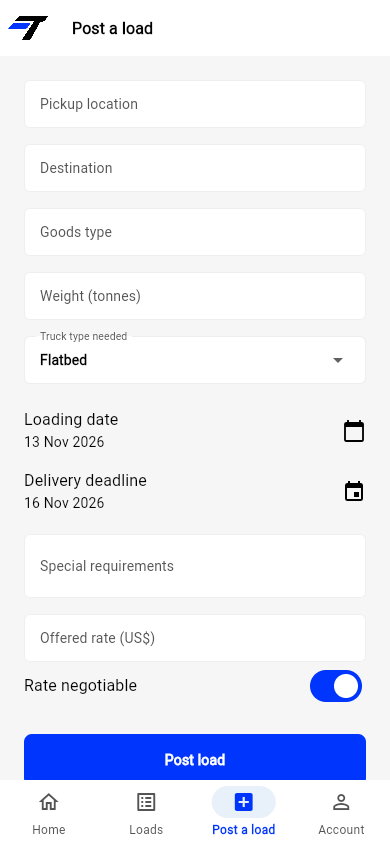
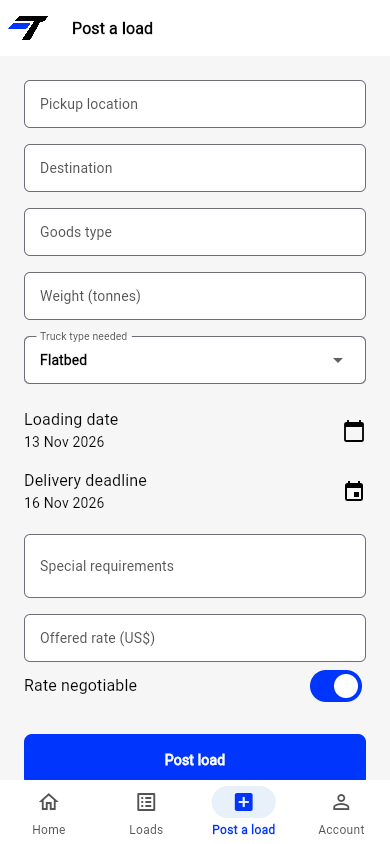
Use Design's new tokens: primaryPressed, focusRing/focusRingDark, inputBorder
- Drop TruberPendingTokens; primary pressed and focus ring come from
  truber_design (no hex literals left in the app)
- Input borders inherit TruberTheme's inputBorder/inputBorderDark and
  focusRingDark tokens; 5 input-border contrast tests un-skipped and pass
- Outlined-button border pairs exempt under WCAG 1.4.11 (label identifies
  the control), asserted via the label's 4.5:1, not skipped
- Retaken toggle, button, input and before/after screenshots

diff --git a/mobile/test/theme_contrast_test.dart b/mobile/test/theme_contrast_test.dart
@@ -1,7 +1,9 @@
 // WCAG 2.x contrast for every text/background pair the app actually uses,
 // in both themes, using the shipped ThemeData (TruberAppTheme) and
 // truber_design tokens. Colours are NOT changed here: a known failure is
-// listed in [_knownFailures] and its test is skipped with the reason.
+// listed in [_knownFailures] and its test is skipped with the reason. A pair
+// WCAG does not require to meet 3:1 is listed in [_exempt]; its test still
+// runs and checks the condition that makes it exempt.
 import 'dart:math' as math;
 
 import 'package:flutter/material.dart';
@@ -193,21 +195,22 @@ List<Pair> pairsFor(Brightness b) {
 }
 
 /// Pairs that fail today. Colours are Design's; not changed here.
-const _knownFailures = <String, String>{
+/// Pairs that fail and are not exempt. Empty since Design's 11 Nov token
+/// update (inputBorder / inputBorderDark, focusRingDark).
+const _knownFailures = <String, String>{};
+
+/// WCAG 1.4.11 (Non-text Contrast) exemption: a button's border doesn't need
+/// 3:1 when the control is identified by its label. Maps the border pair to
+/// the label pair that must then meet 4.5:1.
+const _wcag1411 =
+    'Exempt under WCAG 1.4.11: the outlined button is identified by its label, '
+    'not its border, so the border needs no minimum contrast. The label must '
+    'still meet 4.5:1.';
+const _exempt = <String, String>{
   'light · button · outlined border vs scaffold':
-      'Outlined (secondary) buttons are unchanged by request; Design token borderStrong #D0D0D0 on scaffold #F6F6F6. Needs Design.',
+      'light · button · outlined label on scaffold',
   'dark · button · outlined border vs scaffold':
-      'Outlined (secondary) buttons are unchanged by request; Design token borderStrongDark #545454 on scaffoldDark #141416. Needs Design.',
-  'light · input · enabled border vs fill':
-      'Design token border #EEEEEE on white input fill; WCAG 1.4.11 needs 3:1 for component boundaries. Needs Design.',
-  'light · input · enabled border vs scaffold':
-      'Design token border #EEEEEE on scaffold #F6F6F6. Needs Design.',
-  'dark · input · enabled border vs fill':
-      'Design token borderDark #3A3A40 on surfaceMutedDark #1C1C20. Needs Design.',
-  'dark · input · enabled border vs scaffold':
-      'Design token borderDark #3A3A40 on scaffoldDark #141416. Needs Design.',
-  'dark · input · focused border vs fill':
-      'Design theme uses primaryDark (#0035FE since the 11 Nov brand change) for the dark focused input border; 2.38:1 on surfaceMutedDark #1C1C20. Needs Design.',
+      'dark · button · outlined label on scaffold',
 };
 
 void main() {
@@ -221,7 +224,7 @@ void main() {
       b.writeln(
           '| ${p.theme} | ${p.group} | ${p.name} | ${_hex(p.fg)} | ${_hex(p.bg)} | '
           '${p.ratio.toStringAsFixed(2)}:1 | ${_min(p.kind).toStringAsFixed(1)} | '
-          '${ok ? 'pass' : (_knownFailures.containsKey(p.id) ? 'FAIL (known, skipped)' : 'FAIL')} |');
+          '${ok ? 'pass' : _exempt.containsKey(p.id) ? 'exempt (WCAG 1.4.11)' : (_knownFailures.containsKey(p.id) ? 'FAIL (known, skipped)' : 'FAIL')} |');
     }
     // ignore: avoid_print
     print(b);
@@ -235,6 +238,16 @@ void main() {
   });
 
   for (final p in all) {
+    final label = _exempt[p.id];
+    if (label != null) {
+      test('${p.id}: $_wcag1411', () {
+        final l = all.firstWhere((x) => x.id == label);
+        expect(l.kind, Kind.text);
+        expect(l.ratio, greaterThanOrEqualTo(4.5),
+            reason: '$label = ${l.ratio.toStringAsFixed(2)}:1');
+      });
+      continue;
+    }
     final reason = _knownFailures[p.id];
     test('${p.id} ≥ ${_min(p.kind)}:1', () {
       expect(p.ratio, greaterThanOrEqualTo(_min(p.kind)),
@@ -245,6 +258,13 @@ void main() {
             ? false
             : 'Known failure, colours unchanged: $reason');
   }
+
+  test('exempt list has no stale entries', () {
+    final ids = {for (final p in all) p.id};
+    for (final e in _exempt.entries) {
+      expect(ids, containsAll([e.key, e.value]), reason: 'stale key ${e.key}');
+    }
+  });
 
   test('known-failure list has no stale entries', () {
     final ids = {for (final p in all) p.id};

diff --git a/mobile/lib/ui/theme/truber_app_theme.dart b/mobile/lib/ui/theme/truber_app_theme.dart
@@ -1,19 +1,6 @@
 import 'package:flutter/material.dart';
 import 'package:truber_design/truber_design.dart';
 
-/// Values from Design's primary-button spec (2026-11-11) with no exact
-/// truber_design token yet. **Pending tokens**: Design to add these to
-/// `design/lib/tokens/colors.dart`, then replace each use with the token.
-/// This is the only place in the app with hex colour literals.
-abstract final class TruberPendingTokens {
-  /// Primary button pressed fill. Pending token. Nearest existing token is
-  /// `TruberColors.primaryPressed` / `cobalt700` = #002ACC (1 step off).
-  static const Color primaryPressed = Color(0xFF002ACB);
-
-  /// Dark-mode focus ring for primary buttons. Pending token.
-  static const Color focusRingDark = Color(0xFF99AEFF);
-}
-
 /// Colours a primary (blue-filled) button can use, per brightness. Shared by
 /// the theme and test/theme_contrast_test.dart.
 @immutable
@@ -36,20 +23,20 @@ class TruberPrimaryButtonPalette {
 
   static const light = TruberPrimaryButtonPalette._(
     primary: TruberColors.primary,
-    pressed: TruberPendingTokens.primaryPressed,
+    pressed: TruberColors.primaryPressed, // #002ACB
     onPrimary: TruberColors.onPrimary,
     disabledFill: TruberColors.surfaceSunken, // #EEEEEE
     disabledLabel: TruberColors.grey600, // #545454
-    focusRing: TruberColors.primary,
+    focusRing: TruberColors.focusRing,
   );
 
   static const dark = TruberPrimaryButtonPalette._(
     primary: TruberColors.primaryDark,
-    pressed: TruberPendingTokens.primaryPressed,
+    pressed: TruberColors.primaryDarkPressed, // #002ACB
     onPrimary: TruberColors.onPrimaryDark,
     disabledFill: TruberColors.surfaceMutedDark,
     disabledLabel: TruberColors.textMutedDark,
-    focusRing: TruberPendingTokens.focusRingDark,
+    focusRing: TruberColors.focusRingDark, // #99AEFF
   );
 
   static TruberPrimaryButtonPalette of(Brightness b) =>

diff --git a/mobile/test/theme_toggle_test.dart b/mobile/test/theme_toggle_test.dart
@@ -245,7 +245,7 @@ void main() {
         final style = Theme.of(tester.element(f)).elevatedButtonTheme.style!;
         expect(style.splashFactory, NoSplash.splashFactory);
         expect(style.backgroundColor!.resolve({WidgetState.pressed}),
-            TruberPendingTokens.primaryPressed);
+            TruberColors.primaryPressed);
         expect(
             style.backgroundColor!.resolve({WidgetState.disabled}),
             b == Brightness.dark
